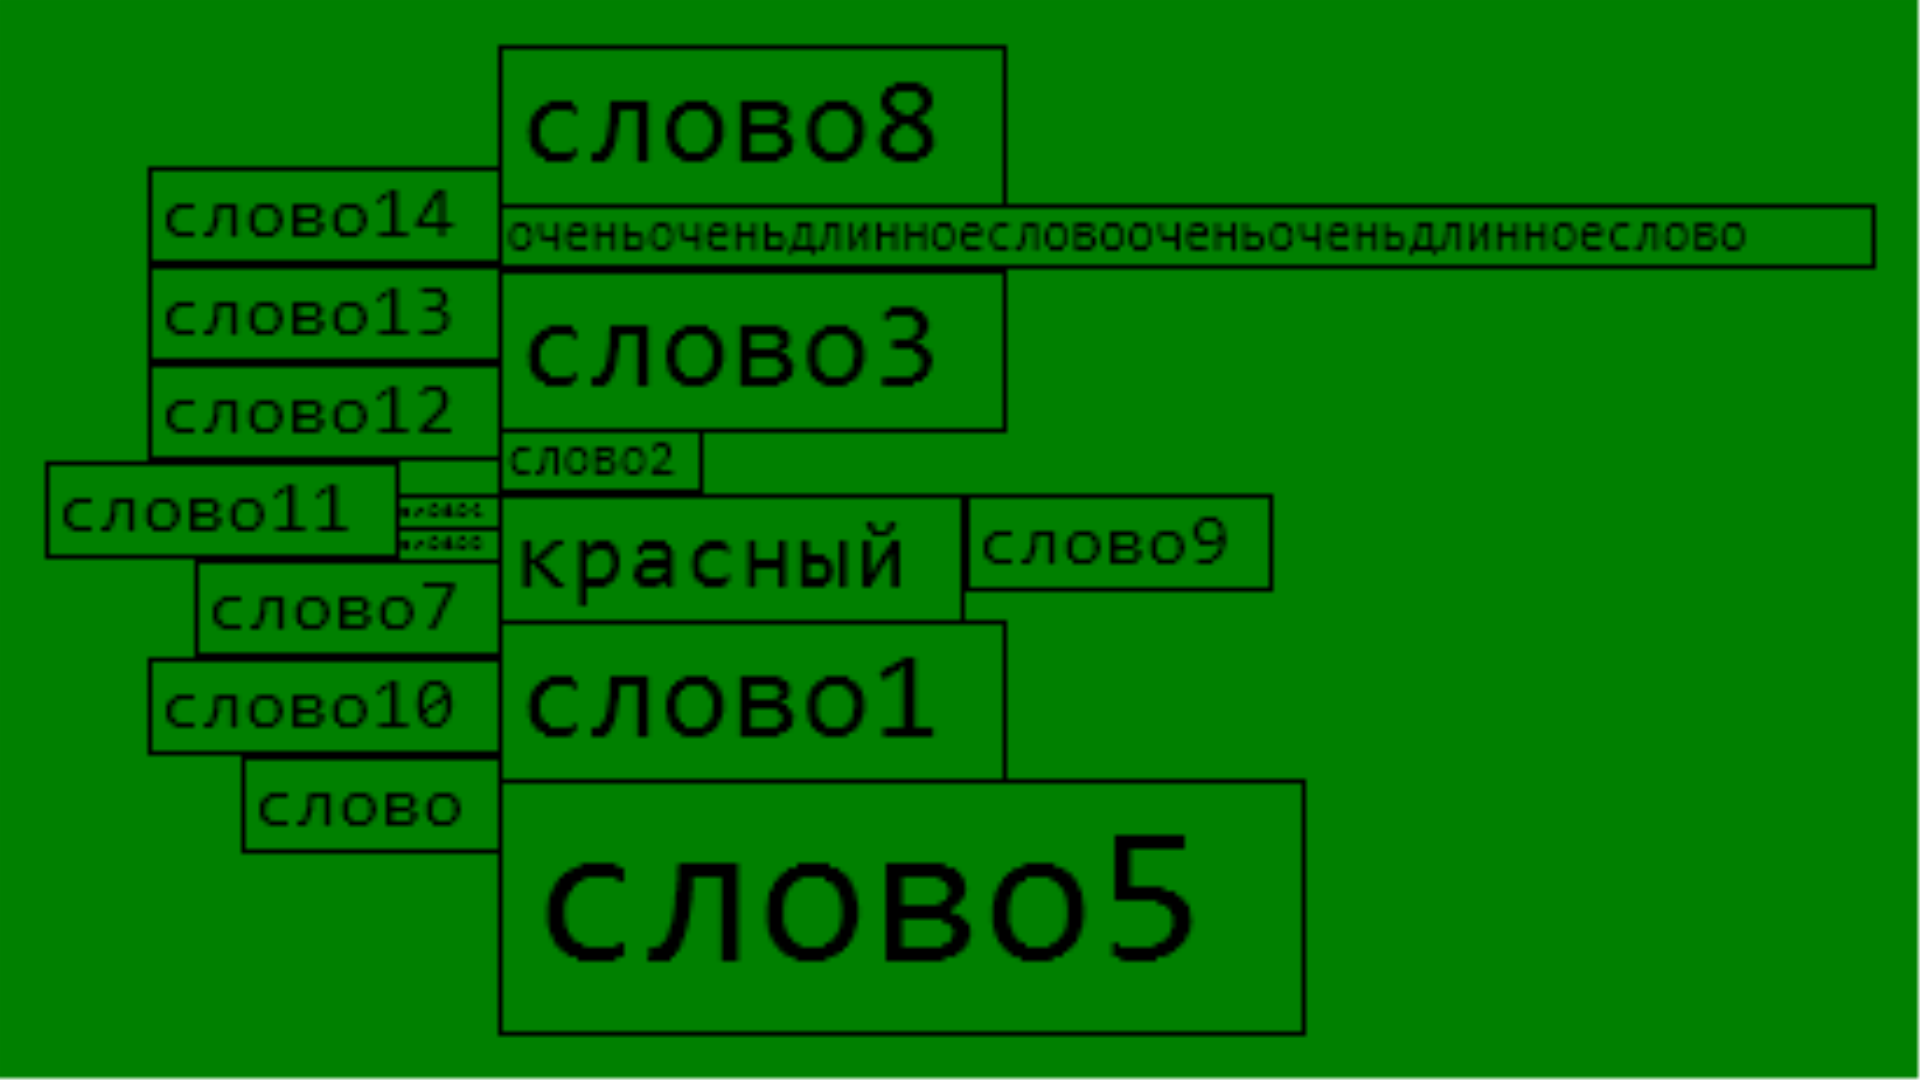
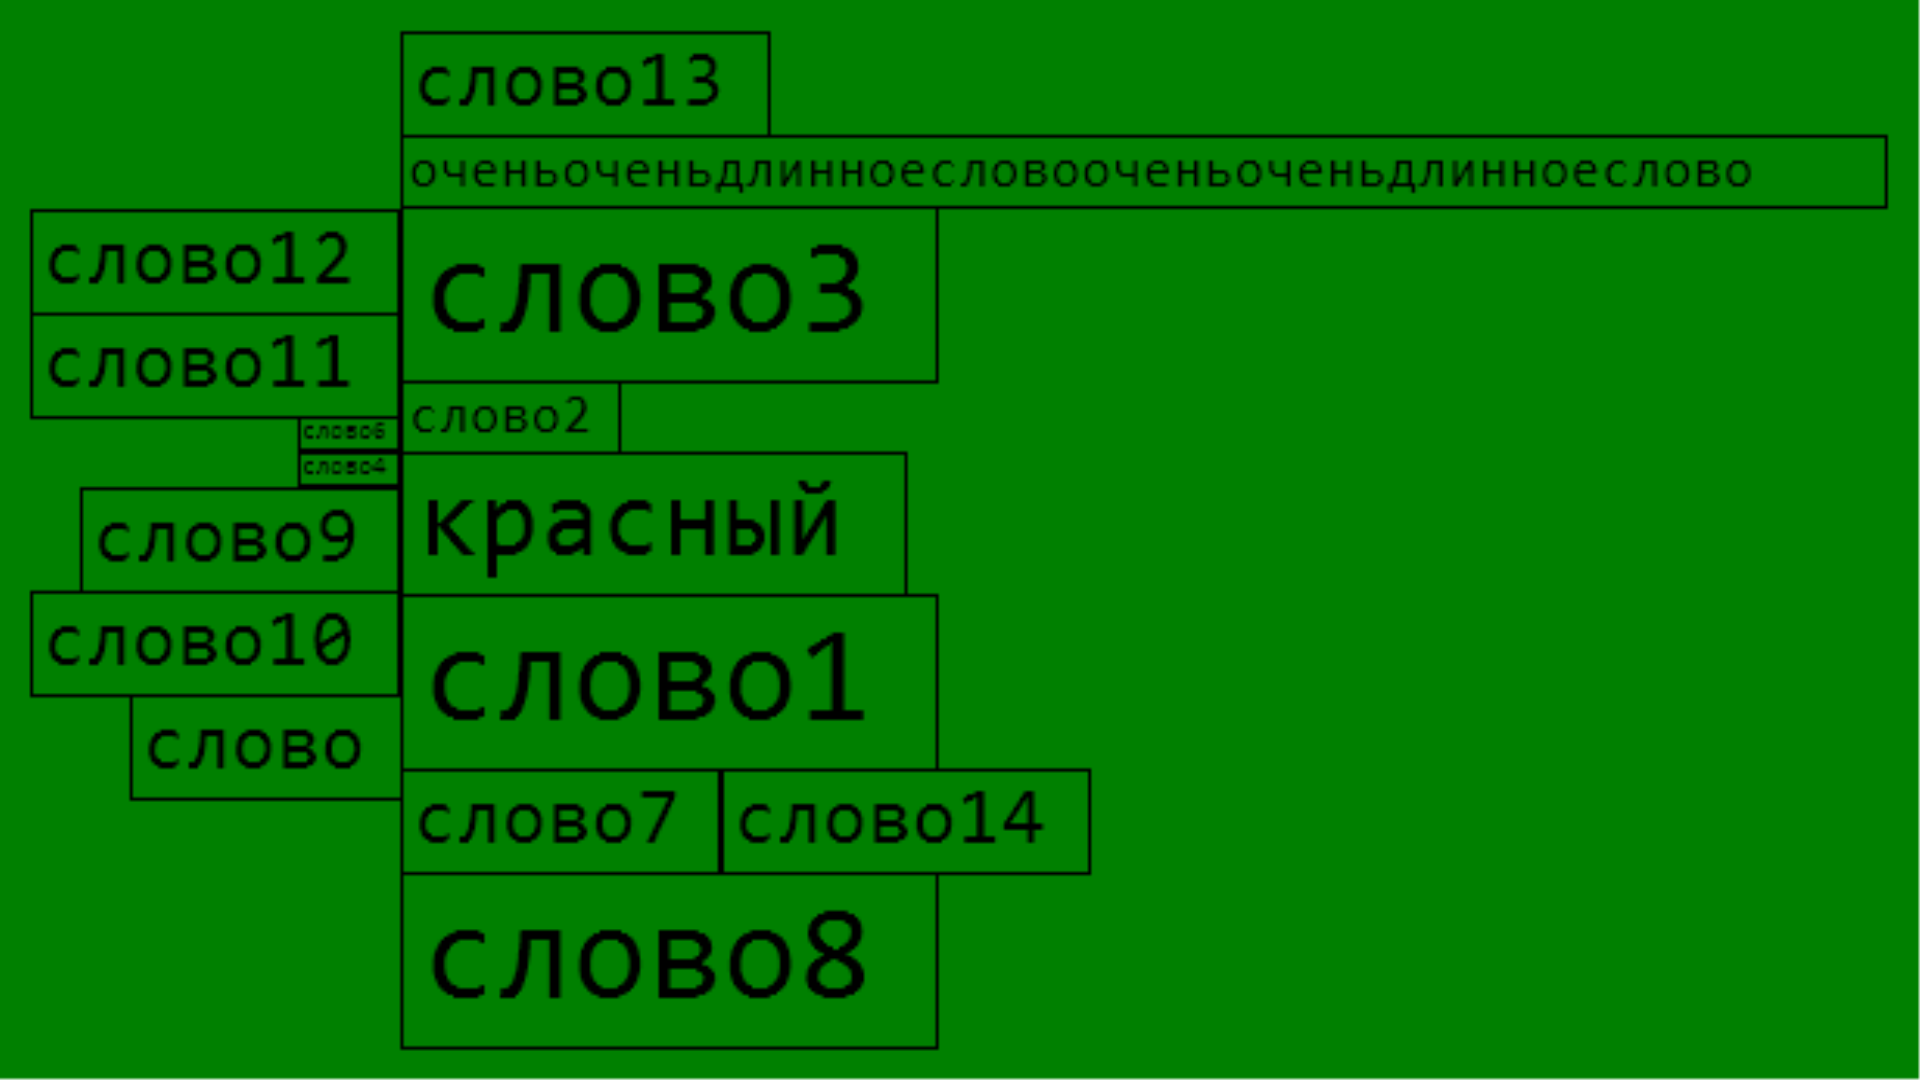
word exclusion added

Changed region(s): [[0.0, 0.0306, 1.0, 1.0]]

diff --git a/TagsCloudContainer/Program.cs b/TagsCloudContainer/Program.cs
@@ -36,10 +36,7 @@ namespace TagsCloudContainer
             var builder = new ContainerBuilder();
             builder.RegisterType<TxtParser>().As<IFileParser>();
             builder.RegisterType<SizeTranslator>().As<ISizeTranslator>();
-            builder.RegisterType<WordFilter>().As<IWordFilter>();
             builder.RegisterType<WordNormalizer>().As<IWordNormalizer>();
-            builder.RegisterType<WordCounter>().As<IWordCounter>();
-            builder.RegisterType<CloudLayouter>().As<ICloudLayouter>();
             builder.RegisterType<CircularCloudLayouter>().As<IWordLayouter>();
             builder.RegisterInstance(new Hunspell(
                 GetDictionaryDirectoryPath("index.aff"),
@@ -49,12 +46,20 @@ namespace TagsCloudContainer
                 .As<SettingsProvider>();
             builder.Register(c => c.Resolve<SettingsProvider>().GetSettings()).As<Settings>();
             builder.Register(c => c.Resolve<SettingsProvider>().GetColoringOptions()).As<ColoringOptions>();
+            
             builder.Register(c =>
             {
                 var settings = c.Resolve<Settings>();
                 return new CircularCloudVisualizer(settings.ColoringOptions, c.Resolve<ISaver>(), settings.Resolution,
                     settings.FontName);
             }).As<IVisualizer>();
+            builder.Register(c =>
+            {
+                var settings = c.Resolve<Settings>();
+                return new WordFilter(settings.ExcludedWords, settings.ExcludedPartsOfSpeech);
+            }).As<IWordFilter>();
+            builder.RegisterType<WordCounter>().As<IWordCounter>();
+            builder.RegisterType<CloudLayouter>().As<ICloudLayouter>();
             container = builder.Build();
         }
 

diff --git a/TagsCloudContainer/Settings Providing/Settings.cs b/TagsCloudContainer/Settings Providing/Settings.cs
@@ -10,7 +10,7 @@ namespace TagsCloudContainer.Settings_Providing
         public readonly string InputPath;
         public readonly string OutputPath;
         public readonly HashSet<string> ExcludedWords;
-        public readonly HashSet<string> PartsOfSpeech;
+        public readonly HashSet<string> ExcludedPartsOfSpeech;
         public readonly ColoringOptions ColoringOptions;
         public readonly Size Resolution;
         public readonly string FontName;
@@ -21,7 +21,7 @@ namespace TagsCloudContainer.Settings_Providing
             string outputPath,
             ColoringOptions coloringOptions,
             HashSet<string> excludedWords,
-            HashSet<string> partsOfSpeech,
+            HashSet<string> excludedPartsOfSpeech,
             Size resolution,
             string fontName)
         {
@@ -29,7 +29,7 @@ namespace TagsCloudContainer.Settings_Providing
             OutputPath = outputPath;
             ColoringOptions = coloringOptions;
             ExcludedWords = excludedWords;
-            PartsOfSpeech = partsOfSpeech;
+            ExcludedPartsOfSpeech = excludedPartsOfSpeech;
             Resolution = resolution;
             FontName = fontName;
         }

diff --git a/TagsCloudContainer/Word Counting/WordFilter.cs b/TagsCloudContainer/Word Counting/WordFilter.cs
@@ -1,10 +1,26 @@
-namespace TagsCloudContainer.Word_Counting
+using System.Collections.Generic;
+
+namespace TagsCloudContainer.Word_Counting
 {
     public class WordFilter : IWordFilter
     {
+        private readonly HashSet<string> excludedWords;
+        private readonly HashSet<string> excludedPartsOfSpeech;
+
+        public WordFilter(HashSet<string> excludedWords, HashSet<string> excludedPartsOfSpeech)
+        {
+            this.excludedWords = excludedWords;
+            this.excludedPartsOfSpeech = excludedPartsOfSpeech;
+        }
+
         public bool IsExcluded(string word)
         {
-            return false;
+            return excludedWords.Contains(word) || excludedPartsOfSpeech.Contains(GetPartOfSpeech(word));
+        }
+
+        private string GetPartOfSpeech(string word)
+        {
+            return "Существительное";
         }
     }
 }

diff --git a/TagsCloudContainer/Settings Providing/SettingsProvider.cs b/TagsCloudContainer/Settings Providing/SettingsProvider.cs
@@ -35,10 +35,10 @@ namespace TagsCloudContainer.Settings_Providing
         {
             var coloringOptions = GetColoringOptions(options);
             var excludedWords = GetWordsHashSet(options.ExcludedWordsPath, parser);
-            var partsOfSpeech = GetWordsHashSet(options.PartsOfSpeechPath, parser);
+            var excludedPartsOfSpeech = GetWordsHashSet(options.ExcludedPartsOfSpeechPath, parser);
             var resolution = GetSizeFromString(options.ResolutionString);
             return new Settings(options.InputPath, options.OutputPath, coloringOptions, excludedWords,
-                partsOfSpeech, resolution, options.FontName);
+                excludedPartsOfSpeech, resolution, options.FontName);
         }
 
         private static ColoringOptions GetColoringOptions(Options options)

diff --git a/TagsCloudContainer/Options.cs b/TagsCloudContainer/Options.cs
@@ -13,8 +13,8 @@ namespace TagsCloudContainer
         [Option("excluded", Required = false, HelpText = "excluded words file", Default = @"..\..\excludedwords.txt")]
         public string ExcludedWordsPath { get; set; }
 
-        [Option("parts", Required = false, HelpText = "analyzed parts of speech", Default = @"..\..\partsofspeech.txt")]
-        public string PartsOfSpeechPath { get; set; }
+        [Option("parts", Required = false, HelpText = "excluded parts of speech", Default = @"..\..\partsofspeech.txt")]
+        public string ExcludedPartsOfSpeechPath { get; set; }
 
         [Option("background", Required = false, HelpText = "background color", Default = "white")]
         public string BackgroundColorWord { get; set; }

diff --git a/TagsCloudContainer/Word Counting/WordNormalizer.cs b/TagsCloudContainer/Word Counting/WordNormalizer.cs
@@ -1,4 +1,5 @@
-using NHunspell;
+using System.Collections.Generic;
+using NHunspell;
 
 namespace TagsCloudContainer.Word_Counting
 {
